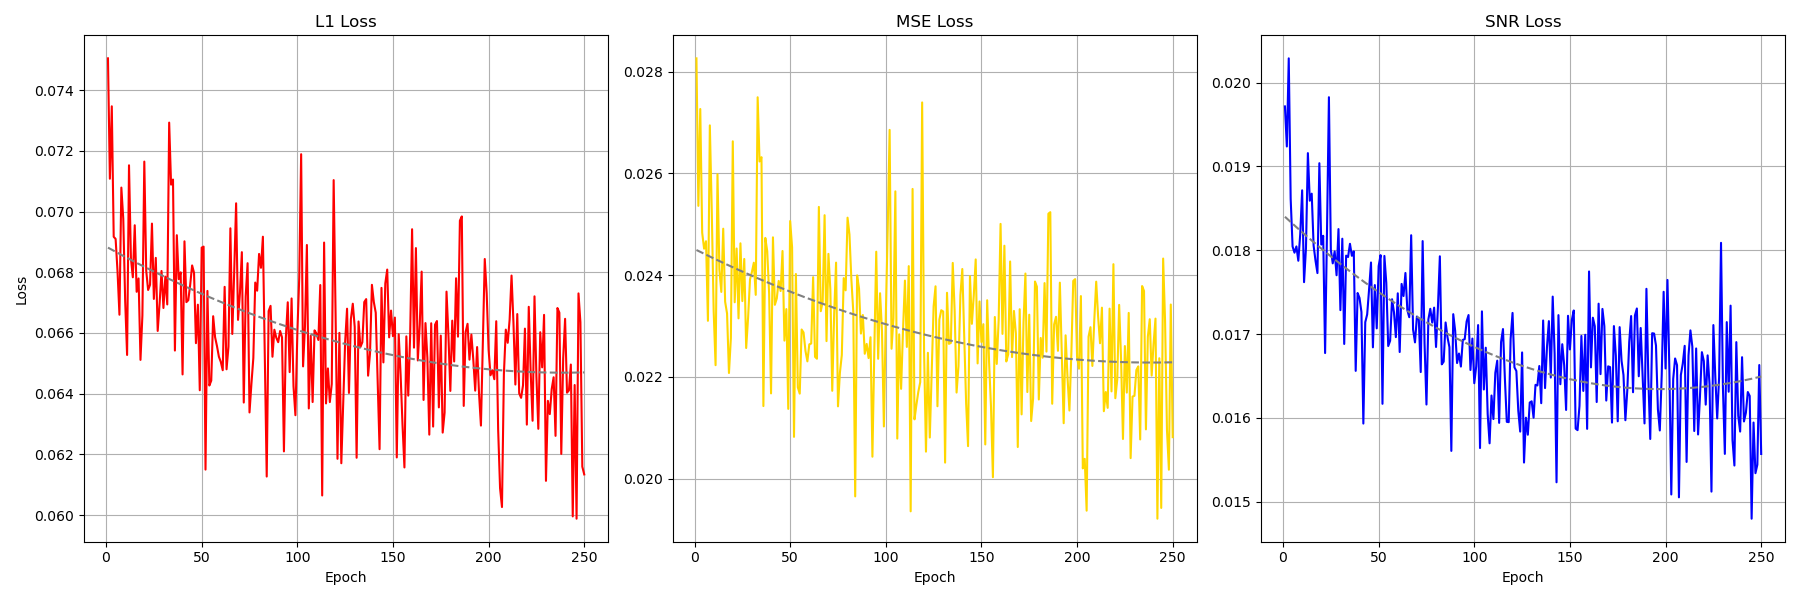
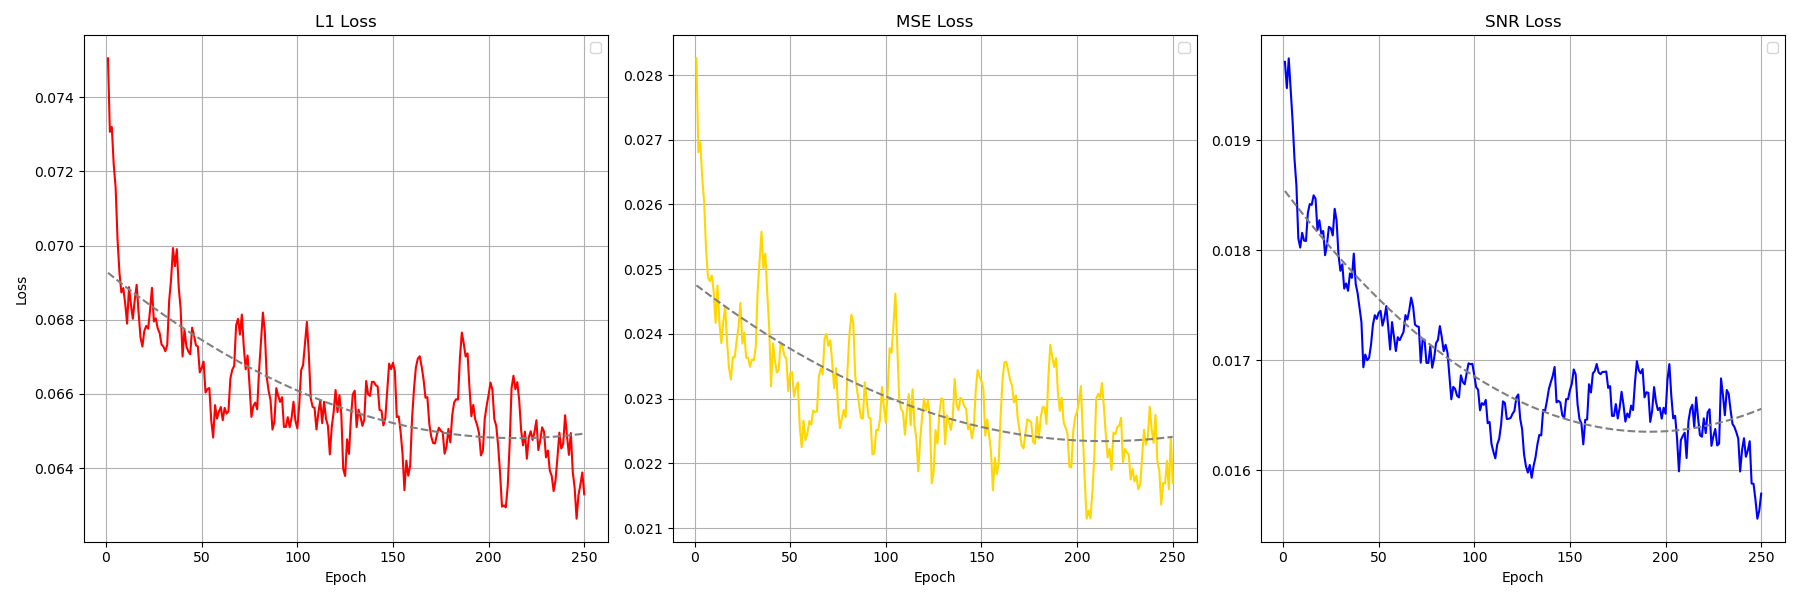
refactor

diff --git a/Evaluation/Training Loss/plot_different_losses.py b/Evaluation/Training Loss/plot_different_losses.py
@@ -3,7 +3,11 @@ import matplotlib.pyplot as plt
 import numpy as np
 
 # Load your data
-data = pd.read_csv('Evaluation/Training Loss/Combined_losses.csv')
+data = pd.read_csv('Evaluation/Training Loss/Loss_L1r4_MSE_SNR.csv')
+
+# Function to calculate moving average
+def moving_average(series, window_size):
+    return series.rolling(window=window_size, min_periods=1).mean()
 
 # Function to calculate trend line
 def add_trend_line(ax, x, y, color):
@@ -11,72 +15,47 @@ def add_trend_line(ax, x, y, color):
     p = np.poly1d(z)
     ax.plot(x, p(x), linestyle='dashed', color=color)
 
+# Define window size for moving average
+window_size = 5
+
+# Calculate moving averages
+data['L1_loss_avg'] = moving_average(data['L1_loss'], window_size)
+data['MSE_loss_avg'] = moving_average(data['MSE_loss'], window_size)
+data['SNR_loss_avg'] = moving_average(data['SNR_loss'], window_size)
+
 # Create the plot for the combined losses with trend lines
 fig, (ax1, ax2, ax3) = plt.subplots(1, 3, figsize=(18, 6), sharex=True)
 
-<<<<<<< HEAD
-<<<<<<< HEAD
 # Plotting L1_loss moving average and trend line
-ax1.plot(data['Epoch'], data['L1_loss_avg'], label=f'L1_loss (Moving Average, window={window_size})', color='red')
+ax1.plot(data['Epoch'], data['L1_loss_avg'], color='red')
 add_trend_line(ax1, data['Epoch'], data['L1_loss_avg'], color='grey')
-=======
-# Plotting L1_loss
-ax1.plot(data['Epoch'], data['L1_loss'], label='L1_loss', color='red')
-add_trend_line(ax1, data['Epoch'], data['L1_loss'], color='grey')
->>>>>>> parent of 00fbc96 (Refactor)
-=======
-# Plotting L1_loss
-ax1.plot(data['Epoch'], data['L1_loss'], label='L1_loss', color='red')
-add_trend_line(ax1, data['Epoch'], data['L1_loss'], color='grey')
->>>>>>> parent of 00fbc96 (Refactor)
 ax1.set_title('L1 Loss')
 ax1.set_xlabel('Epoch')
 ax1.set_ylabel('Loss')
 ax1.grid(True)
+ax1.legend()
 
-<<<<<<< HEAD
-<<<<<<< HEAD
 # Plotting MSE_loss moving average and trend line
-ax2.plot(data['Epoch'], data['MSE_loss_avg'], label=f'MSE_loss (Moving Average, window={window_size})', color='gold')
+ax2.plot(data['Epoch'], data['MSE_loss_avg'], color='gold')
 add_trend_line(ax2, data['Epoch'], data['MSE_loss_avg'], color='grey')
-=======
-# Plotting MSE_loss
-ax2.plot(data['Epoch'], data['MSE_loss'], label='MSE_loss', color='gold')
-add_trend_line(ax2, data['Epoch'], data['MSE_loss'], color='grey')
->>>>>>> parent of 00fbc96 (Refactor)
-=======
-# Plotting MSE_loss
-ax2.plot(data['Epoch'], data['MSE_loss'], label='MSE_loss', color='gold')
-add_trend_line(ax2, data['Epoch'], data['MSE_loss'], color='grey')
->>>>>>> parent of 00fbc96 (Refactor)
 ax2.set_title('MSE Loss')
 ax2.set_xlabel('Epoch')
 ax2.grid(True)
+ax2.legend()
 
-<<<<<<< HEAD
-<<<<<<< HEAD
 # Plotting SNR_loss moving average and trend line
-ax3.plot(data['Epoch'], data['SNR_loss_avg'], label=f'SNR_loss (Moving Average, window={window_size})', color='blue')
+ax3.plot(data['Epoch'], data['SNR_loss_avg'], color='blue')
 add_trend_line(ax3, data['Epoch'], data['SNR_loss_avg'], color='grey')
-=======
-# Plotting SNR_loss
-ax3.plot(data['Epoch'], data['SNR_loss'], label='SNR_loss', color='blue')
-add_trend_line(ax3, data['Epoch'], data['SNR_loss'], color='grey')
->>>>>>> parent of 00fbc96 (Refactor)
-=======
-# Plotting SNR_loss
-ax3.plot(data['Epoch'], data['SNR_loss'], label='SNR_loss', color='blue')
-add_trend_line(ax3, data['Epoch'], data['SNR_loss'], color='grey')
->>>>>>> parent of 00fbc96 (Refactor)
 ax3.set_title('SNR Loss')
 ax3.set_xlabel('Epoch')
 ax3.grid(True)
+ax3.legend()
 
 # Adjust layout
 plt.tight_layout()
 
 # Save the plot to a file
-plt.savefig('combined_loss_plot_with_trend.png')
+plt.savefig('combined_loss_plot_smoothed_with_trend_only.png')
 
 # Show the plot
 plt.show()

diff --git a/Interface/app.py b/Interface/app.py
@@ -19,16 +19,9 @@ logging.basicConfig(level=logging.INFO)
 # Initialize the model
 device = "cuda" if torch.cuda.is_available() else "cpu"
 pipeline = AutoPipelineForText2Image.from_pretrained("runwayml/stable-diffusion-v1-5").to(device) #path to SD-v1.5
-<<<<<<< HEAD
-<<<<<<< HEAD
 pipeline.load_lora_weights("maria26/Floor_Plan_LoRA") # path to LoRA Module
 # to use the weights of your own model in the "Model" folder, use pipeline.load_lora_weights("Model",weights_name="your_weights_name")
-=======
-pipeline.load_lora_weights("Model", weight_name="model.safetensors") #path to the model
->>>>>>> parent of 00fbc96 (Refactor)
-=======
-pipeline.load_lora_weights("Model", weight_name="model.safetensors") #path to the model
->>>>>>> parent of 00fbc96 (Refactor)
+
 
 def generate_images(prompt, num_images, scheduler, inference_steps, task_id):
     """

diff --git a/Training/lora_training.py b/Training/lora_training.py
@@ -25,20 +25,10 @@ import torch.nn.functional as F
 import torch.utils.checkpoint
 
 #This is the training script for the LoRA model. 
-<<<<<<< HEAD
-<<<<<<< HEAD
 #It is based on the training script from the huggingface diffusers repository: https://github.com/huggingface/diffusers.git.
 #The train_text_to_image.py script was then split into all python files that can be found in the training folder 
 #and then modified to the needs of this thesis
 
-
-
-=======
-#It is based on the training script from the stable-diffusion repository.
->>>>>>> parent of 00fbc96 (Refactor)
-=======
-#It is based on the training script from the stable-diffusion repository.
->>>>>>> parent of 00fbc96 (Refactor)
 # Imported files
 
 # Will error if the minimal version of diffusers is not installed. Remove at your own risks.
